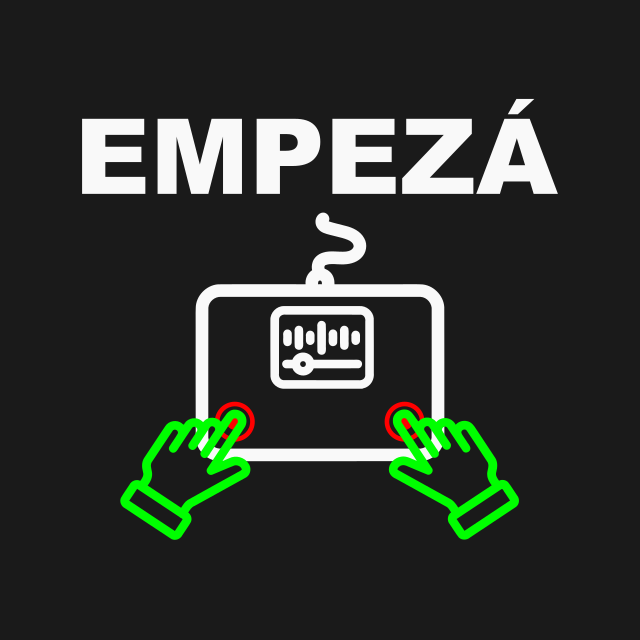
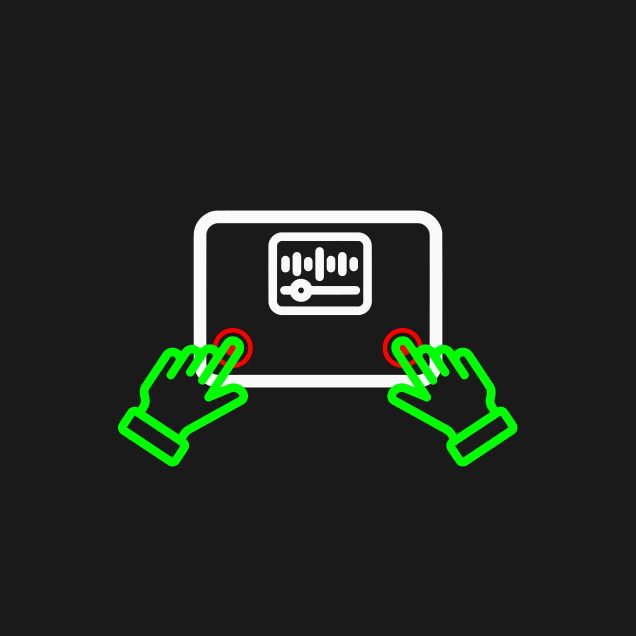
Mejorar pantalla de Ventilagon Idle

Changed region(s): [[0.1195, 0.1494, 0.8664, 0.8664]]

diff --git a/apps/micropython/apps/ventilagon_game.py b/apps/micropython/apps/ventilagon_game.py
@@ -51,6 +51,21 @@ class VentilagonIdle(Scene):
 
     def on_enter(self):
         super(VentilagonIdle, self).on_enter()
+
+        self.logo = Sprite()
+        self.logo.set_x(-32)
+        self.logo.set_y(0)
+        self.logo.set_perspective(2)
+        self.logo.set_strip(stripes["empeza.png"])
+        self.logo.set_frame(0)
+
+        self.empeza = Sprite()
+        self.empeza.set_x(128-32)
+        self.empeza.set_y(0)
+        self.empeza.set_perspective(2)
+        self.empeza.set_strip(stripes["super-ventilagon.png"])
+        self.empeza.set_frame(0)
+
         self.idle_screens = [make_me_a_planet(stripes[s]) for s in ["ventilagon-empezar1.png", "ventilagon-empezar2.png"]]
         self.idle_shown = 0
         self.change_idle_screen()

diff --git a/apps/micropython/main.py b/apps/micropython/main.py
@@ -222,10 +222,15 @@ class GamesMenu(menu.Menu):
                 self.es_tincho.set_frame(pf)
 
 def main():
-    # init images
-    menu = GamesMenu(MAIN_MENU_OPTIONS)
-    menu.call_later(700, menu.load_images)
-    director.push(menu)
+    
+    # main = GamesMenu(MAIN_MENU_OPTIONS)
+
+    from apps.ventilagon_game import VentilagonIdle
+    main = VentilagonIdle()
+
+    # # init images
+    main.call_later(700, main.load_images)
+    director.push(main)
     director.run()
 
 if __name__ == '__main__':

diff --git a/apps/images/other/stripedefs.py b/apps/images/other/stripedefs.py
@@ -18,6 +18,8 @@ stripes = [
         fullscreen("rotationgrid.png"),
         fullscreen("ventilagon-empezar1.png"),
         fullscreen("ventilagon-empezar2.png"),
+        strip("empeza.png", frames=1),
+        strip("super-ventilagon.png", frames=1),
     ),
     palettegroup(
         fullscreen("bembi.png"),
